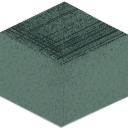
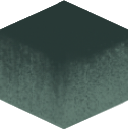
Recharge station and updated wall tiles

diff --git a/Assets/Scripts/IsometricCharacterController.cs b/Assets/Scripts/IsometricCharacterController.cs
@@ -136,8 +136,14 @@ public class IsometricCharacterController : MonoBehaviour
     }
 
     void InputHandler() {
-        float horizontal = Input.GetAxis("Horizontal");
-        float vertical = Input.GetAxis("Vertical");
+        float horizontal = 0f;
+        float vertical = 0f;
+        
+        if (Input.GetKey(KeyCode.A)) horizontal = -1f;
+        else if (Input.GetKey(KeyCode.D)) horizontal = 1f;
+        if (Input.GetKey(KeyCode.W)) vertical = 1f;
+        else if (Input.GetKey(KeyCode.S)) vertical = -1f;
+        
         movement = new Vector2(horizontal, vertical);
         movement = Vector2.ClampMagnitude(movement, 1);
 

diff --git a/Assets/Scripts/RechargeStation.cs b/Assets/Scripts/RechargeStation.cs
@@ -4,15 +4,11 @@ using UnityEngine;
 
 public class RechargeStation : MonoBehaviour
 {
-    // Start is called before the first frame update
-    void Start()
-    {
-        
-    }
+    public GameObject GameManager;
 
-    // Update is called once per frame
-    void Update()
-    {
-        
+    void OnTriggerEnter2D(Collider2D other) {
+        if (other.gameObject.layer == 6) {
+            GameManager.GetComponent<GameManager>().health = 4;
+        }
     }
 }

diff --git a/Assets/Scripts/GameManager.cs b/Assets/Scripts/GameManager.cs
@@ -6,7 +6,7 @@ using UnityEngine.SceneManagement;
 public class GameManager : MonoBehaviour
 {
     [SerializeField] static int startingHealth = 4;
-    [SerializeField] int health = startingHealth;
+    public int health = startingHealth;
     [SerializeField] GameObject player;
     [SerializeField] Transform lastSpawnPoint;
 
